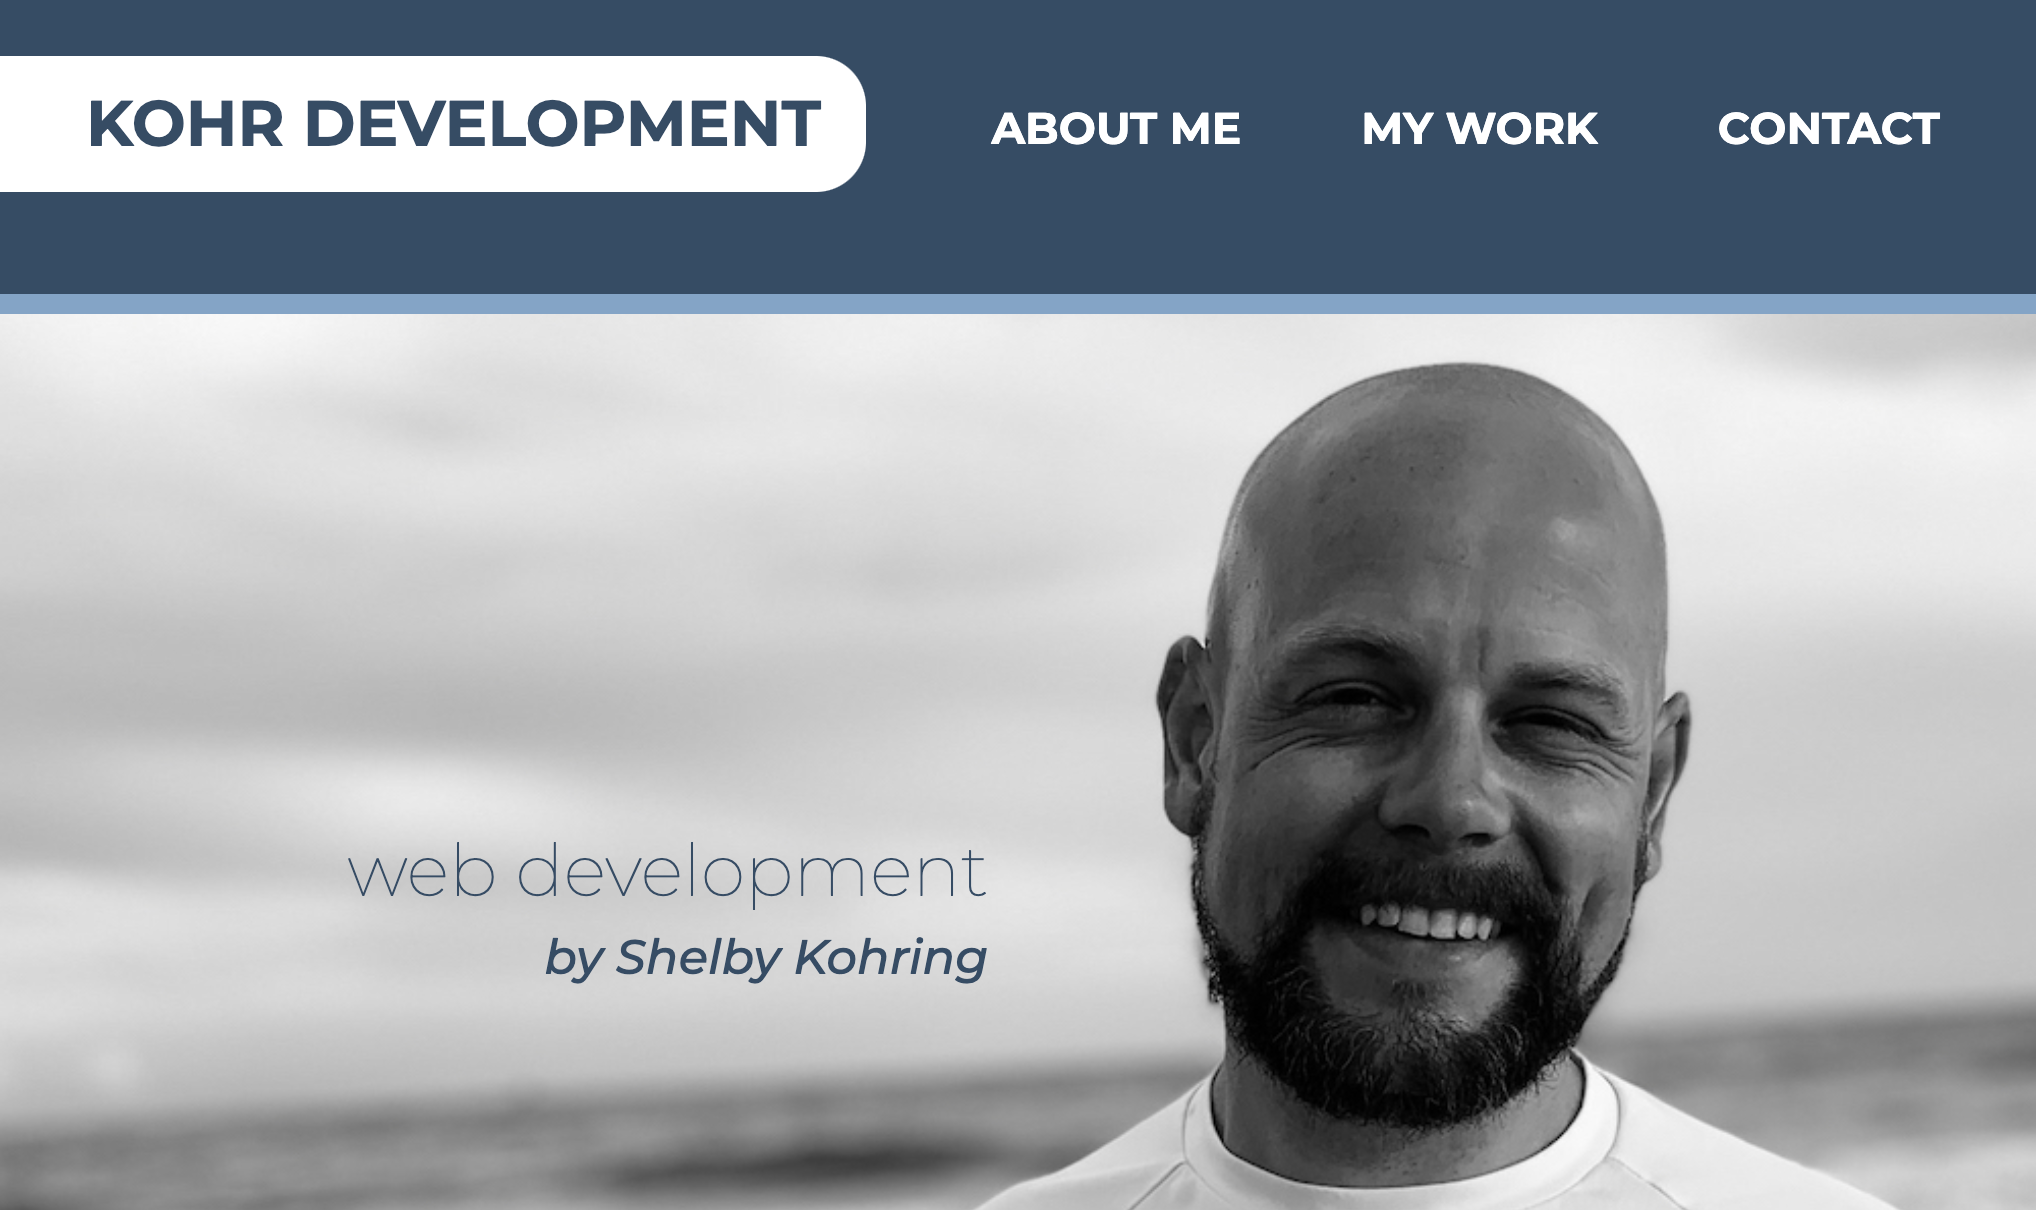
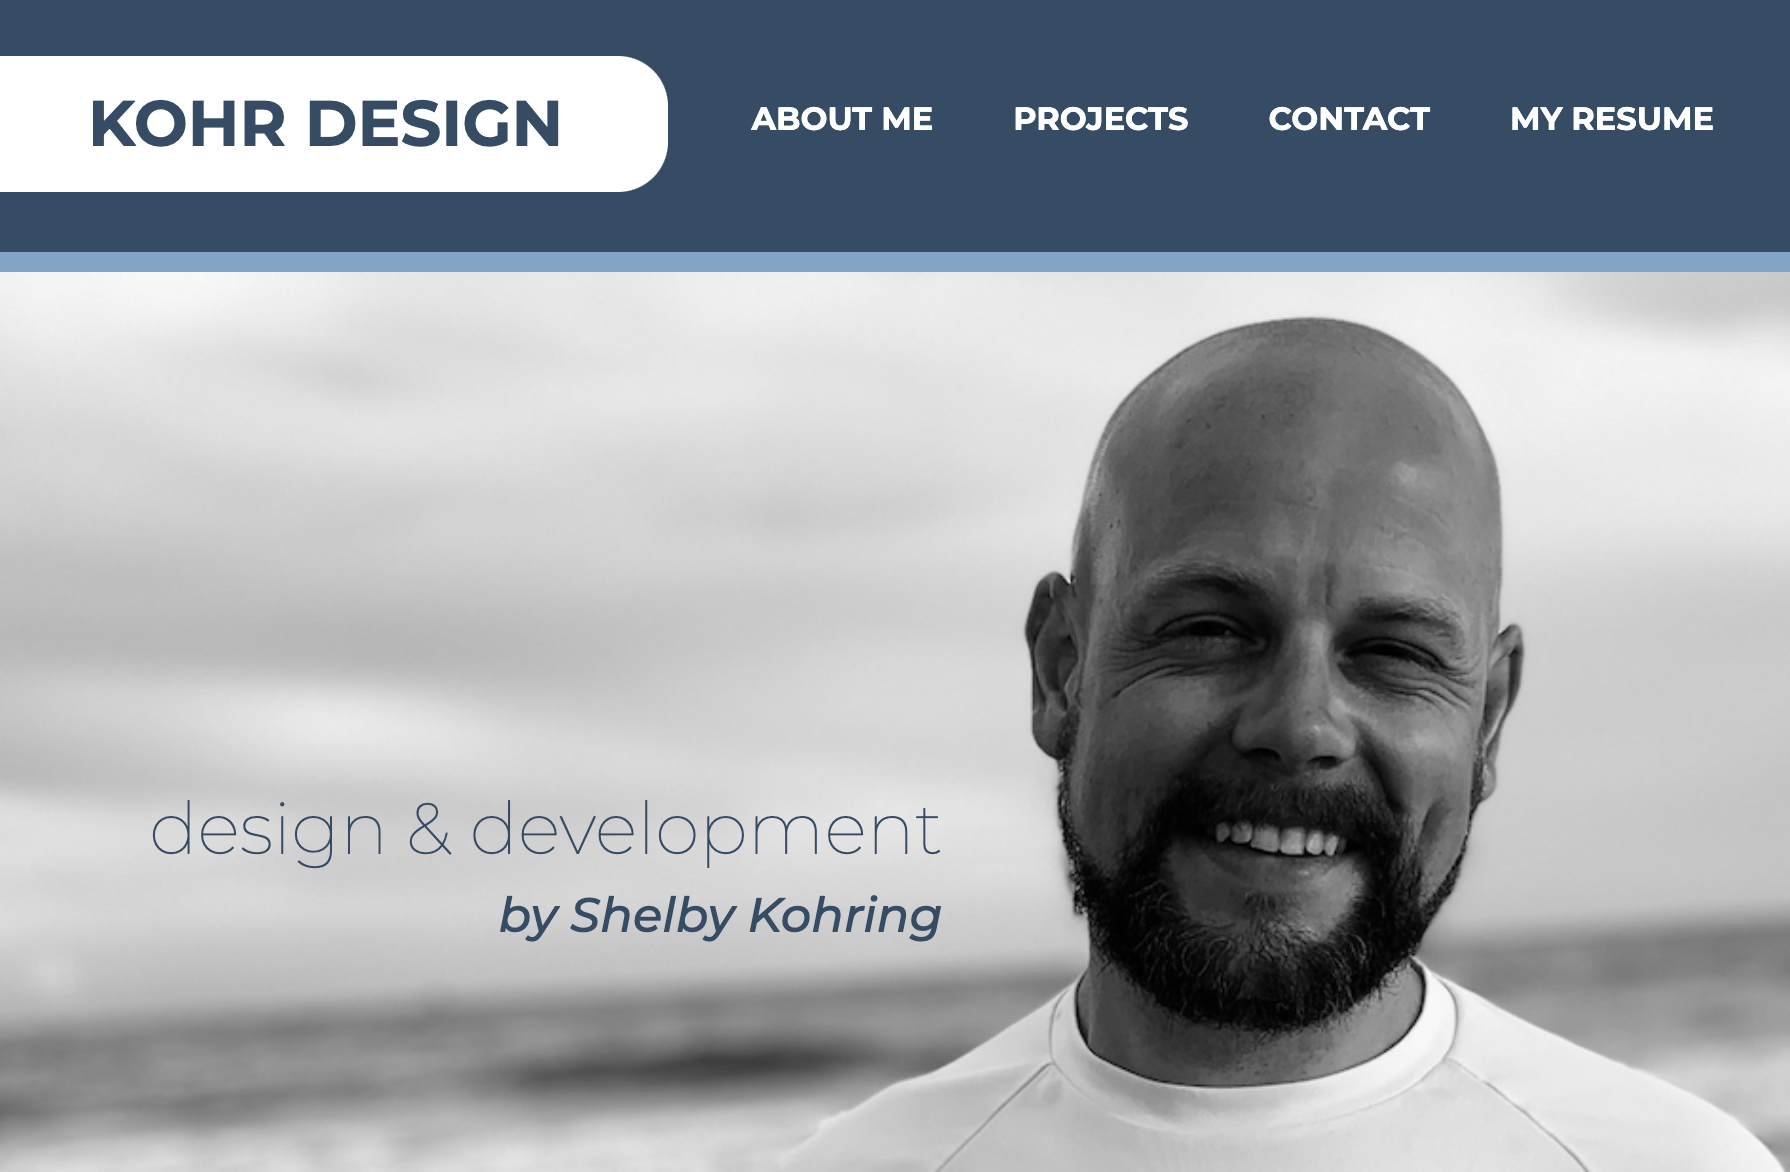
updated README

diff --git a/README.md b/README.md
@@ -1,24 +1,24 @@
-![Kohr Development](assets/images/portfolio-screenshot.png)
+![Kohr Design](assets/images/portfolio-screenshot.png)
 
-## Kohr Development: Shelby Kohring's Professional Portfolio
+## Kohr Design: Shelby Kohring's Professional Portfolio
 
 ### Learn and See the Following:
-* Learn about who Shelby is and why web development
-* See some of his development work
+* Learn about who Shelby is and why design and development
+* See some of his development projects
 * Contact him through any of the following accessible avenues, including links
-  * by phone
+  * [by phone](tel:+1-615-426-6948)
   * [by email](mailto:kohringsw@gmail.com)
   * [on GitHub](https://github.com/kohringsw)
   * [on Twitter](https://twitter.com/shelbykohring)
   * [on Instagram](https://www.instagram.com/shelbykohring/)
   * [on LinkedIn](https://www.linkedin.com/in/shelby-kohring-3335171b8/)
-  * (LinkedIn access coming soon)
-  * (link to Shelby's resume coming soon)
 
 ### This Application (and his other work) is powered by:
 * HTML
 * CSS (Bootstrap and Tailwind)
 * JavaScript (jQuery, jQueryUI, Moment.js)
+* Node.js
+* Express.js
 
 ### See deployed application:
-[Visit the "Kohr Development" application here](https://kohringsw.github.io/kohr-development/)
+[Kohr Design: shelbykohring.com](www.shelbykohring.com)
